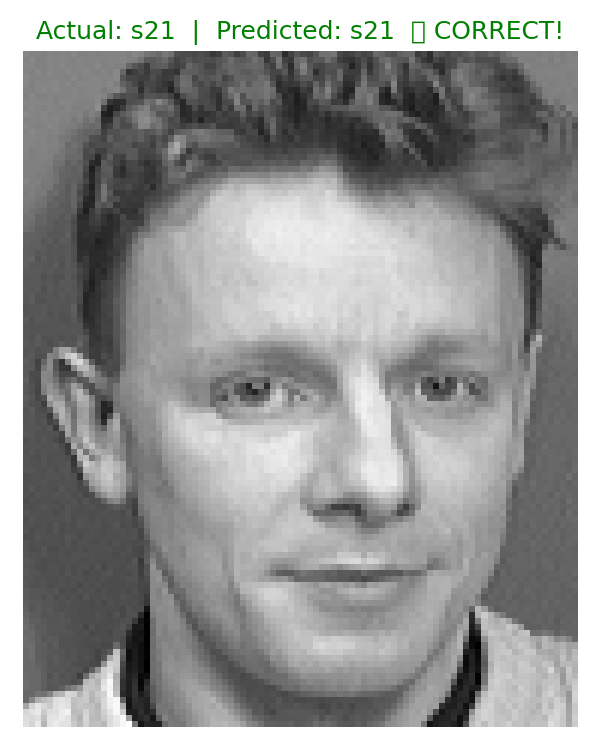
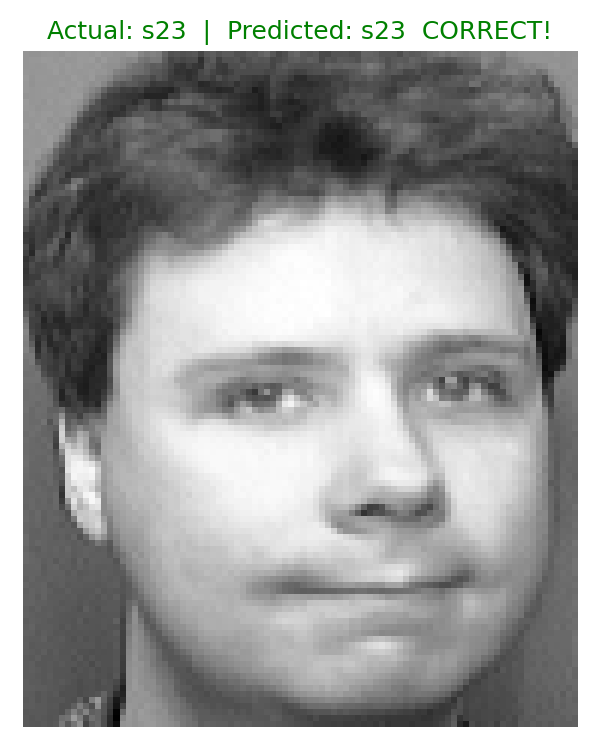
fixed a minor typo

diff --git a/main.py b/main.py
@@ -3,7 +3,7 @@
 # Runs the full pipeline: Load Data → Train → Evaluate → Recognize
 # -------------------------------------------------------
 # Run from repo root: python main.py
-4
+
 import sys
 import os
 
